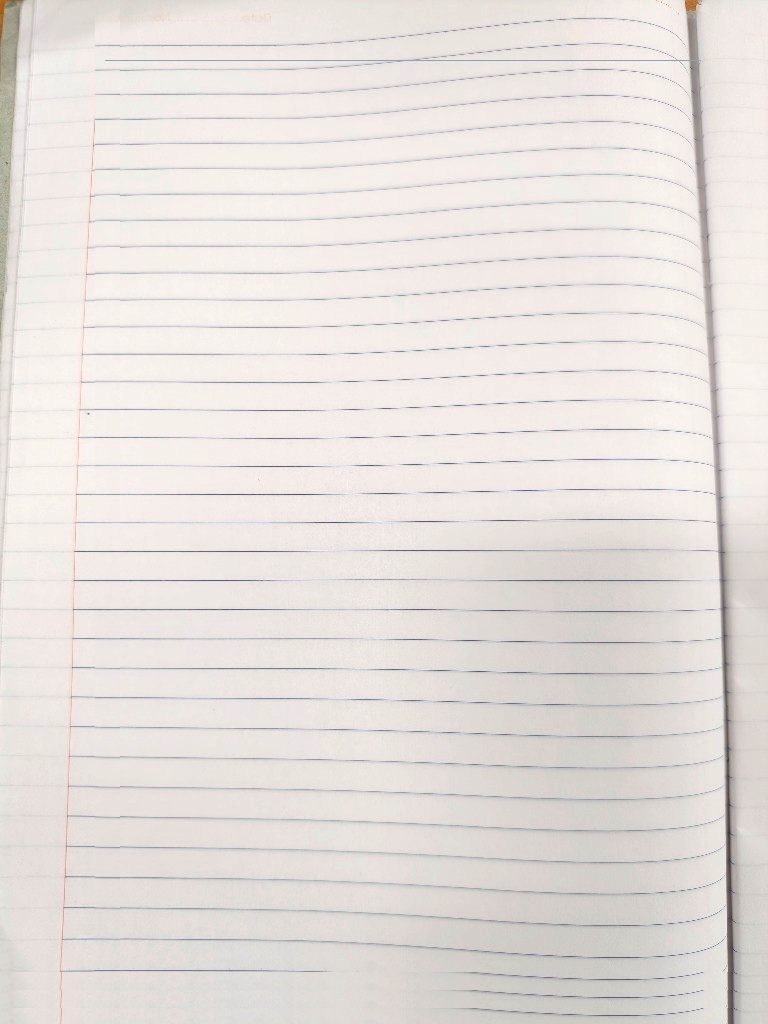
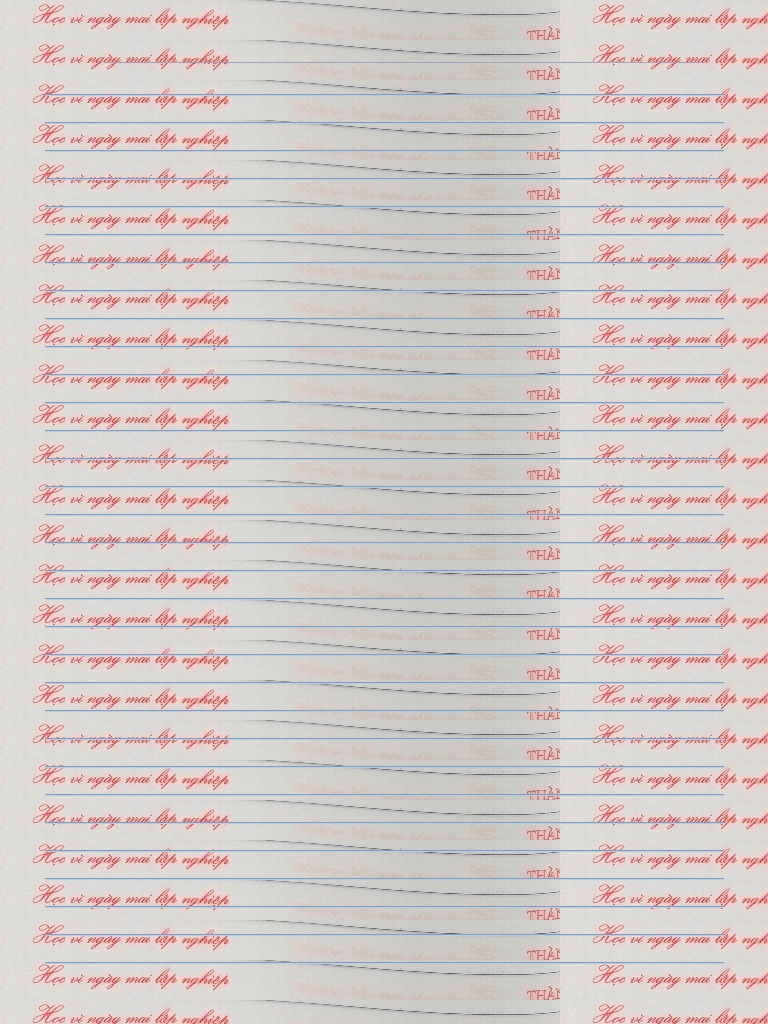
fix(release): v5.9.0 pristine solid ruled lines, auto-cache purge, grounded text, and default mobile single page

diff --git a/index.html b/index.html
@@ -2601,7 +2601,7 @@
     // (100% horizontal alignment, zero drift, zero cutting across lines)
     // ========================================================
     const SPREAD_LINES = [68, 89, 110, 132, 153, 174, 195, 216, 238, 259, 280, 301, 322, 344, 365, 386, 407, 428, 450, 471, 492, 513, 534, 556, 577, 598, 619, 640, 662, 683, 704, 725];
-    const TARGET_TN_SINGLE = [93, 118, 143, 168, 194, 220, 246, 273, 299, 327, 354, 382, 410, 438, 466, 494, 522, 551, 580, 609, 638, 668, 698, 729, 759, 790, 820, 850, 880, 910, 940, 971];
+    const TARGET_TN_SINGLE = [94, 122, 150, 178, 206, 234, 262, 290, 318, 346, 374, 402, 430, 458, 486, 514, 542, 570, 598, 626, 654, 682, 710, 738, 766, 794, 822, 850, 878, 906, 934, 962];
     const TARGET_HH_SINGLE = [98, 126, 154, 182, 211, 269, 298, 328, 358, 389, 420, 451, 483, 514, 546, 578, 611, 645, 679, 713, 748, 783, 817, 852, 887, 922, 957];
 
     function getNotebookLineContour(baseY, x, leftM, rightM, isSpread, isRightSubpage, templateKey, lIdx, baselines, blOffset) {
@@ -2687,7 +2687,7 @@
     // GLOBAL APPLICATION STATE
     // ========================================================
     const state = {
-      notebookTemplate: 'notebook_thanhnam_spread.jpg',
+      notebookTemplate: 'notebook_thanhnam_left.jpg',
       spreadWriteMode: 'both',
       text: '',
       fontSize: 20, // 20px for natural handwriting weight
@@ -2768,7 +2768,13 @@
     // ========================================================
     // CACHE BUSTING & ASSET VERSIONING (GUARANTEES FRESH ASSETS)
     // ========================================================
-    const APP_VERSION = '5.8.5';
+    const APP_VERSION = '5.9.0';
+    if (localStorage.getItem('cheptay_app_ver') !== APP_VERSION) {
+      localStorage.setItem('cheptay_app_ver', APP_VERSION);
+      if ('caches' in window) {
+        caches.keys().then(keys => Promise.all(keys.map(k => caches.delete(k))));
+      }
+    }
     function getAssetUrl(url) {
       if (!url) return '';
       return url + (url.includes('?') ? '&' : '?') + 'v=' + APP_VERSION;

diff --git a/sw.js b/sw.js
@@ -1,5 +1,5 @@
 // Service Worker for Chép Tay Tiếng Trung PWA
-const CACHE_NAME = 'cheptay-v5.8.8-authentic-grounded-spreads-singles';
+const CACHE_NAME = 'cheptay-v5.9.0-pristine-release';
 const ASSETS_TO_CACHE = [
   './',
   './index.html',
